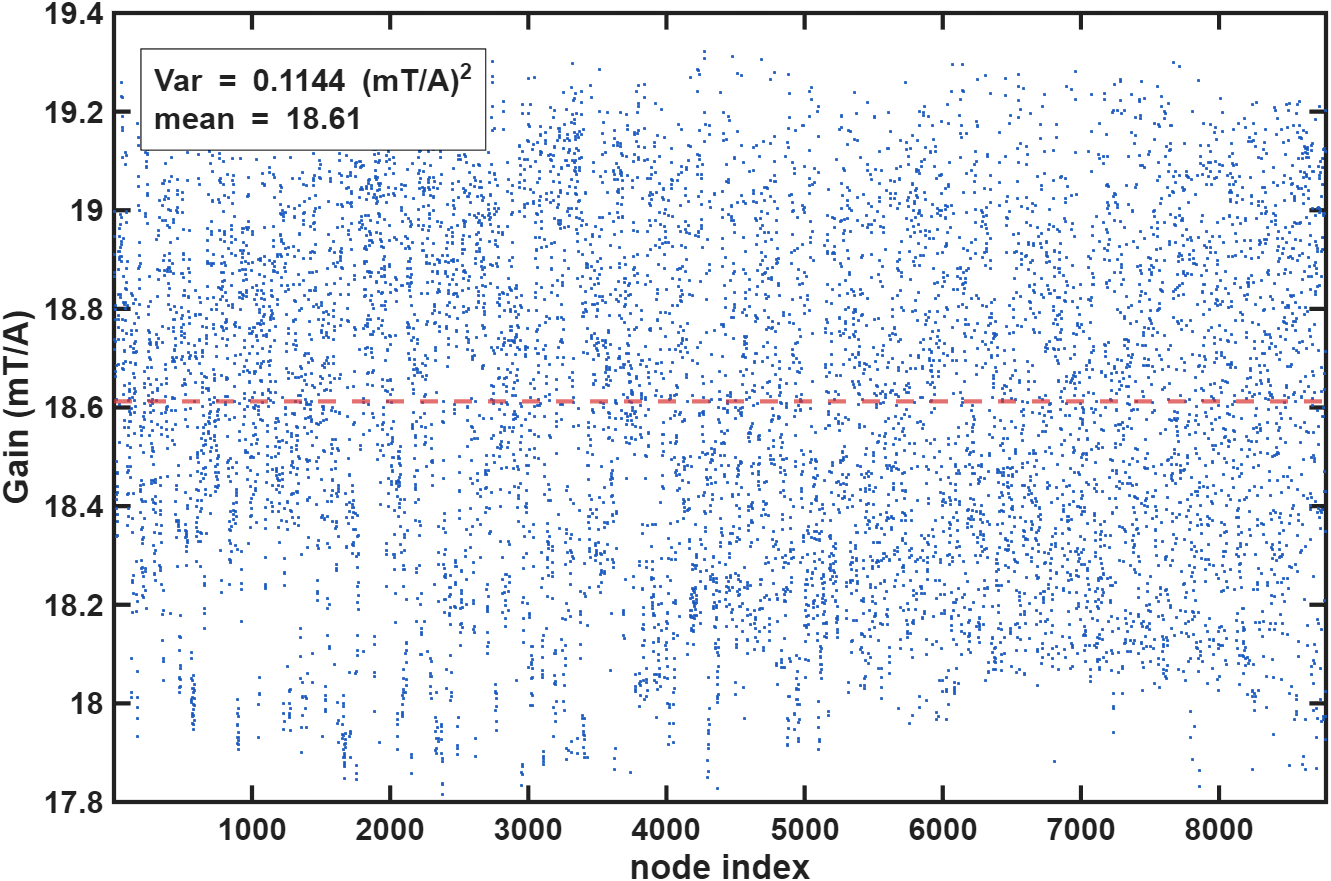
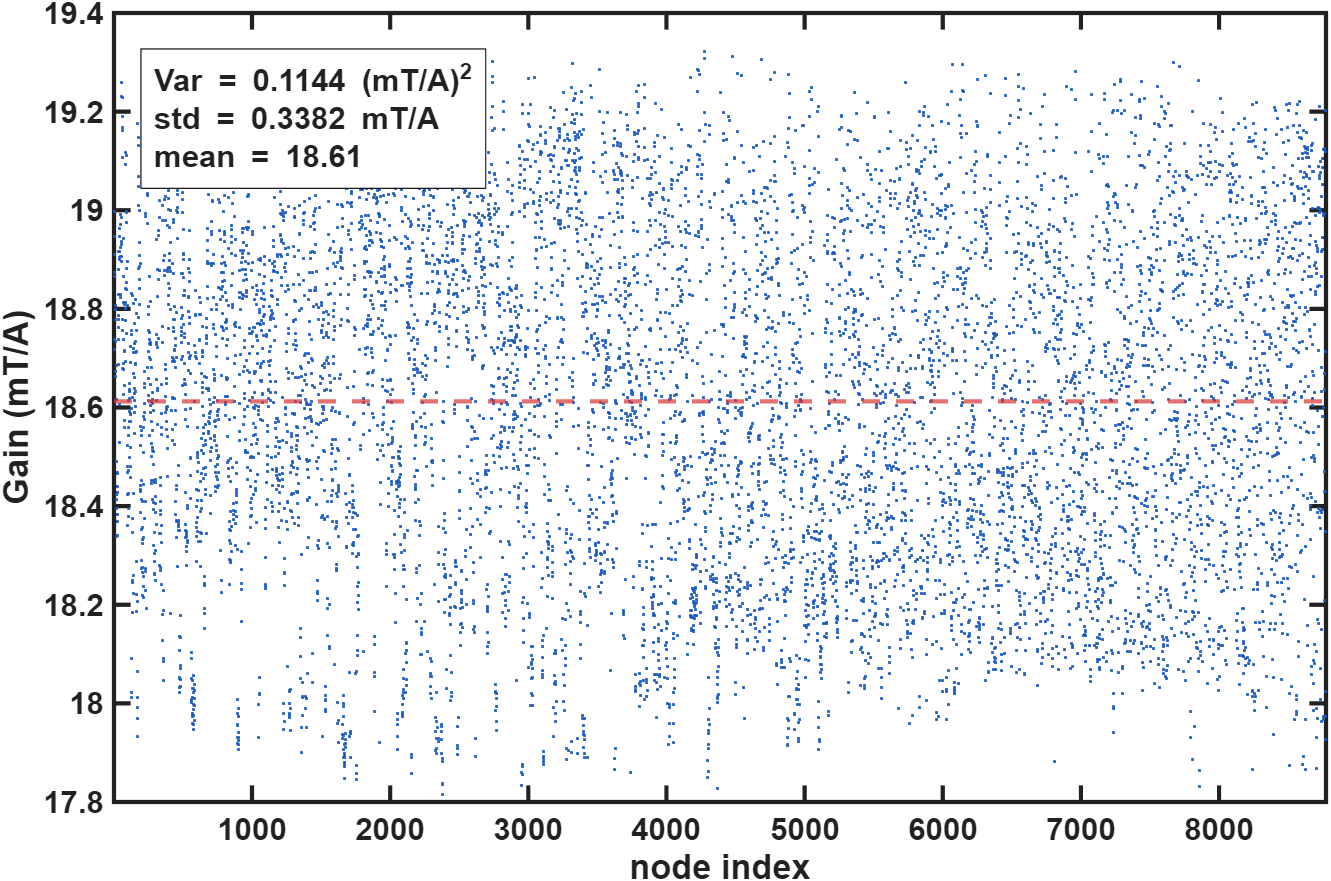
index plots: add std to annotation (Var/std/mean)
plot_gain_iso_index.m: annotate std alongside Var and mean on all 4 per-node
gain/iso index figures. std: fix gain 0.175, bias gain 0.338 mT/A (CoV ~0.9% vs
1.8%); fix iso 0.0538, bias iso 0.0570.

Changed region(s): [[0.0924, 0.1226, 0.3696, 0.2145]]

diff --git a/magnetic_sim/ANSYS/main/matlab/long2016_hexapole_halfcut/Calibration_using_FEM_modeling/no_fix_dir/code/plot/plot_gain_iso_index.m b/magnetic_sim/ANSYS/main/matlab/long2016_hexapole_halfcut/Calibration_using_FEM_modeling/no_fix_dir/code/plot/plot_gain_iso_index.m
@@ -36,10 +36,10 @@ function plot_gain_iso_index()
 
     fixfig = fullfile(calroot,'fix_dir','figures');
     nofig  = fullfile(nofix,'figures');
-    render_index(gf,  'Gain (mT/A)', '(mT/A)^2', fullfile(fixfig,'gain_index.png'));
-    render_index(isf, 'iso',         '',         fullfile(fixfig,'iso_index.png'));
-    render_index(gb,  'Gain (mT/A)', '(mT/A)^2', fullfile(nofig, 'gain_index.png'));
-    render_index(isb, 'iso',         '',         fullfile(nofig, 'iso_index.png'));
+    render_index(gf,  'Gain (mT/A)', '(mT/A)^2', 'mT/A', fullfile(fixfig,'gain_index.png'));
+    render_index(isf, 'iso',         '',         '',     fullfile(fixfig,'iso_index.png'));
+    render_index(gb,  'Gain (mT/A)', '(mT/A)^2', 'mT/A', fullfile(nofig, 'gain_index.png'));
+    render_index(isb, 'iso',         '',         '',     fullfile(nofig, 'iso_index.png'));
 
     fprintf('\n=== 逐節點 gain/iso（R≤150µm 球 %d 節點）===\n', npts);
     fprintf('Var  gain: fix=%.5g  bias=%.5g (mT/A)^2 | iso: fix=%.5g  bias=%.5g\n', ...
@@ -48,8 +48,8 @@ function plot_gain_iso_index()
             mean(gf), mean(gb), mean(isf), mean(isb));
 end
 
-function render_index(y, ylab, vunit, out)
-    v = var(y);  m = mean(y);  n = numel(y);
+function render_index(y, ylab, vunit, sunit, out)
+    v = var(y);  s = std(y);  m = mean(y);  n = numel(y);
     fig = figure('Color','w','Position',[80 80 1000 620]); hold on;
     plot(1:n, y, '.', 'MarkerSize', 4, 'Color', [0.10 0.35 0.75]);
     yline(m, '--', 'Color', [0.85 0.20 0.20], 'LineWidth', 2);
@@ -58,9 +58,11 @@ function render_index(y, ylab, vunit, out)
     set(gca,'FontSize',15,'FontWeight','bold','LineWidth',2,'TickLength',[.012 .012]);
     xlabel('node index','FontWeight','bold');
     ylabel(ylab,'FontWeight','bold');
-    if isempty(vunit), vtxt = sprintf('Var = %.4g', v);
-    else,              vtxt = sprintf('Var = %.4g %s', v, vunit); end
-    txt = sprintf('%s\nmean = %.4g', vtxt, m);
+    if isempty(vunit)
+        txt = sprintf('Var = %.4g\nstd = %.4g\nmean = %.4g', v, s, m);
+    else
+        txt = sprintf('Var = %.4g %s\nstd = %.4g %s\nmean = %.4g', v, vunit, s, sunit, m);
+    end
     text(0.030, 0.94, txt, 'Units','normalized', 'FontSize',15,'FontWeight','bold', ...
          'VerticalAlignment','top','BackgroundColor',[1 1 1],'EdgeColor',[0 0 0],'Margin',5);
     ax = gca; ax.Toolbar.Visible = 'off';
